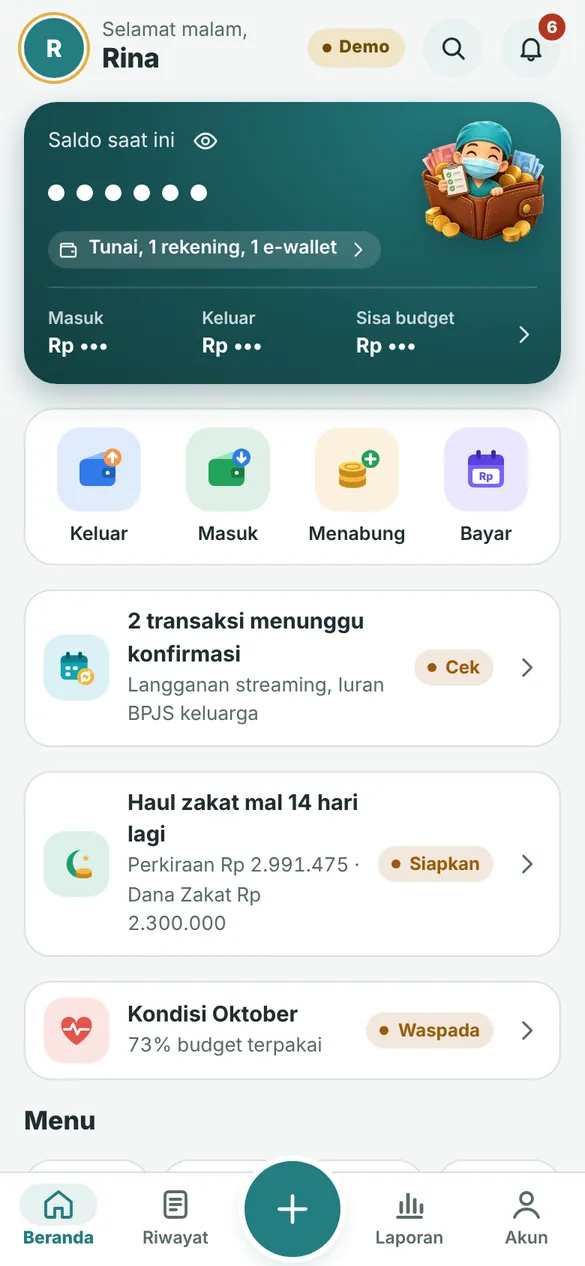
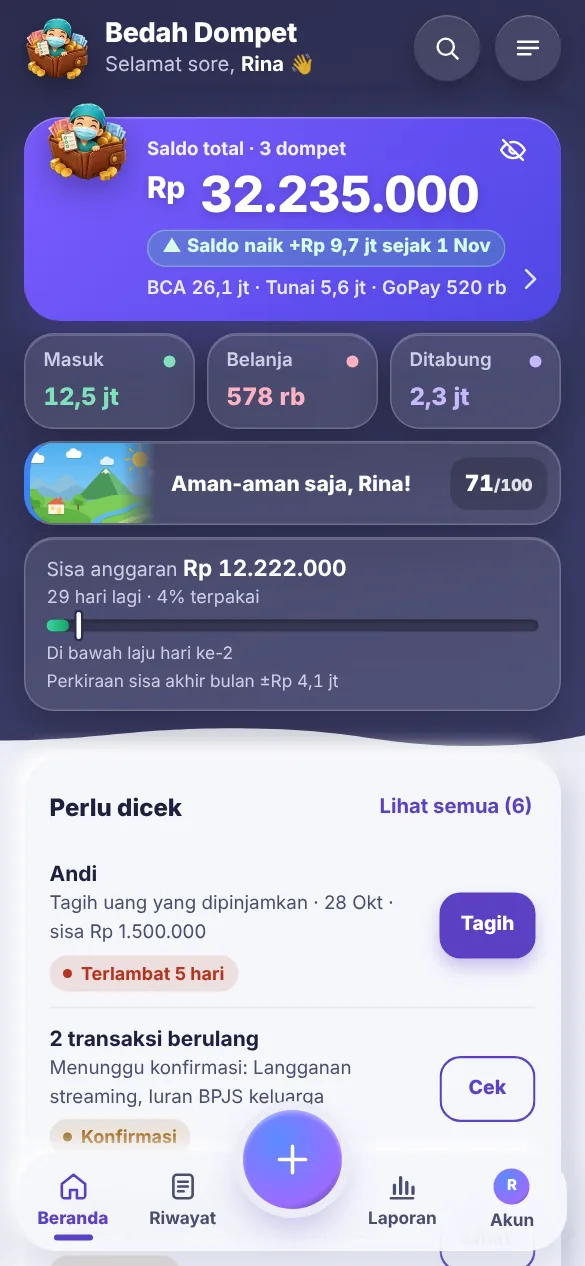
Tangkapan layar produk tampilan baru Bedah Dompet 2.4.0
- gambar/app-beranda.webp, app-laporan.webp, app-riwayat.webp diganti tampilan baru
  (HP 390 px, 1,5x, mode demo, saldo ditampilkan)
- Teks alt gambar di halaman produk disesuaikan dengan isinya

Claude-Session: https://claude.ai/code/session_013pJi9tn48WrBLtMtSjSm6g

diff --git a/produk/bedah-dompet/index.html b/produk/bedah-dompet/index.html
@@ -34,8 +34,8 @@
     <p class="muted tipis">Pembayaran sekali untuk aplikasi. Kode lisensi dikirim ke email setelah pembayaran.</p>
   </div>
   <div class="ponsel" aria-label="Tampilan aplikasi">
-    <img src="/gambar/app-beranda.webp" alt="Beranda Bedah Dompet: saldo, pintasan catat, dan pengingat" width="585" height="1266" loading="eager">
-    <img src="/gambar/app-laporan.webp" alt="Laporan bulanan Bedah Dompet" width="585" height="1266" loading="lazy">
+    <img src="/gambar/app-beranda.webp" alt="Beranda Bedah Dompet: saldo total, kesehatan keuangan, sisa anggaran, dan yang perlu dicek" width="585" height="1266" loading="eager">
+    <img src="/gambar/app-laporan.webp" alt="Laporan bulanan Bedah Dompet: tren 6 bulan, belanja, dan tabungan" width="585" height="1266" loading="lazy">
   </div>
 </div></section>
 
